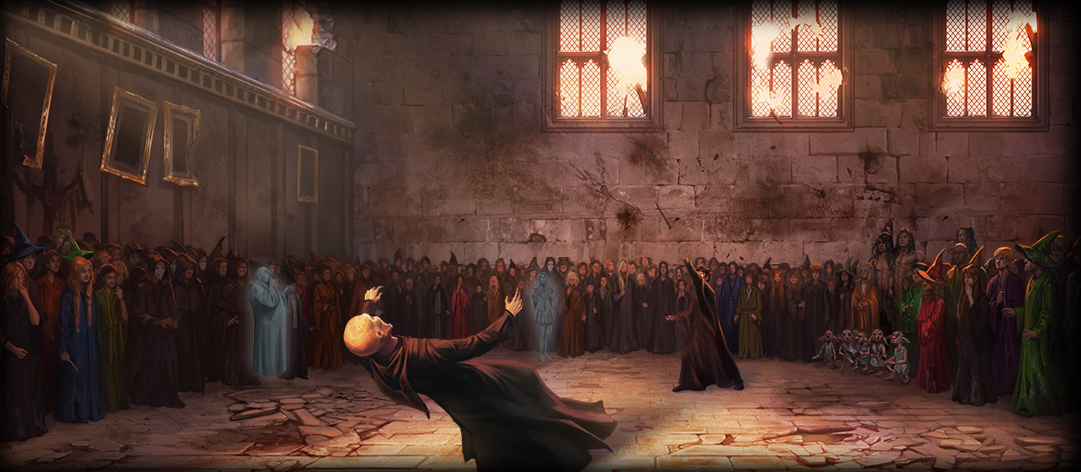
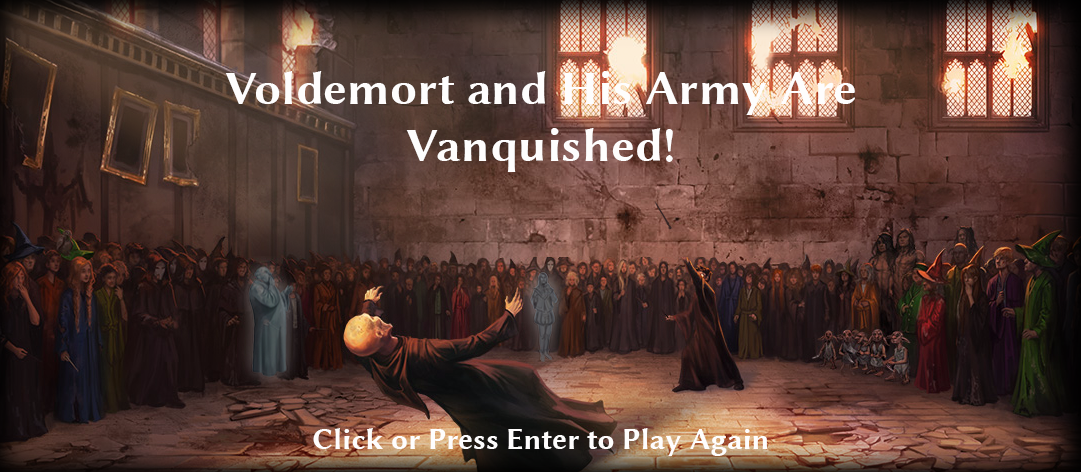
modified screens

Changed region(s): [[0.2137, 0.1483, 0.7937, 0.2373], [0.3663, 0.2669, 0.6411, 0.3559], [0.2747, 0.8898, 0.7327, 0.9788]]

diff --git a/public/js/screens/title.js b/public/js/screens/title.js
@@ -21,33 +21,26 @@ game.TitleScreen = me.ScreenObject.extend({
         // add a new renderable component with the scrolling text
         me.game.world.addChild(new (me.Renderable.extend({
             // constructor
-            init: function() {
+            init : function() {
                 this._super(me.Renderable, 'init', [0, 0, me.game.viewport.width, me.game.viewport.height]);
 
                 // font for the scrolling text
                 this.font = new me.BitmapFont(me.loader.getBinary('PressStart2P'), me.loader.getImage('PressStart2P'));
             },
 
-            // some callback for the tween objects
-            scrollover: function() {
-                // reset to default value
-                this.scrollerpos = 1024;
-                this.scrollertween.to({ scrollerpos: -2200 }, 10000).onComplete(this.scrollover.bind(this)).start();
-            },
-
             update: function(dt) {
                 return true;
             },
-
+	/*
             draw: function(renderer) {
                 // TODO: fix this rendering
-                this.font.draw(renderer, "A HARRY POTTER THEMED TOWER DEFENSE GAME", 635, 700);
-                this.font.draw(renderer, "CLICK OR PRESS ENTER TO PLAY", 765, 775);
-		this.font.draw(renderer, "PRESS L TO LEARN HOW TO PLAY", 765, 850);
+                this.font.draw(renderer, "DEFEND THE WIZARDING WORLD OF HARRY POTTER", 2000, 1000);
+                this.font.draw(renderer, "CLICK OR PRESS ENTER TO PLAY", 2150, 1200);
+		this.font.draw(renderer, "PRESS L TO LEARN HOW TO PLAY", 2150, 1400);
                 // this.font.draw(renderer, "A HARRY POTTER THEMED TOWER DEFENSE GAME", 635, 1050);
                 // this.font.draw(renderer, "CLICK OR PRESS ENTER TO PLAY", 765, 1125);
             },
-
+	*/
         })), 2);
 
         // change to play state on press Enter or click/tap

diff --git a/public/js/screens/loser.js b/public/js/screens/loser.js
@@ -11,7 +11,7 @@ game.LoserScreen = me.ScreenObject.extend({
 	var loserImage = new me.Sprite(0, 0, {
 		image: me.loader.getImage('DarkMark'),
 	});
-
+	me.game.viewport.reset(0, 0);
 	// position and scale to fit the viewport size
 	loserImage.anchorPoint.set(0, 0);
 	loserImage.scale(me.game.viewport.width / loserImage.width, me.game.viewport.height / loserImage.height);
@@ -25,25 +25,18 @@ game.LoserScreen = me.ScreenObject.extend({
 		init: function() {
 			this._super(me.Renderable, 'init', [0, 0, me.game.viewport.width, me.game.viewport.height]);
 
-			//font for the scrolling text
+			//font 
 			this.font = new me.BitmapFont(me.loader.getBinary('PressStart2P'), me.loader.getImage('PressStart2P'));
-		},
-
-		// some callback for the tween objects
-		scrollover: function() {
-			//reset to default value
-			this.scrollerpos = 1024;
-			this.scrollertween.to({ scrollerpos: -2200 }, 10000).onComplete(this.scrollover.bind(this)).start();
 		},
 
 		update: function(dt) {
 			return true;
 		},
 
-		draw: function(renderer) {
-			this.font.draw(renderer, "GAME OVER", 635, 700);
-			this.font.draw(renderer, "CLICK OR PRESS ENTER TO PLAY AGAIN", 635, 800);
-		},
+		//draw: function(renderer) {
+		//	this.font.draw(renderer, "GAME OVER", 2000, 2000);
+	//		this.font.draw(renderer, "CLICK OR PRESS ENTER TO PLAY AGAIN", 2000, 2200);
+	//	},
 
 	})), 2);
 

diff --git a/public/js/entities/enemyEntities.js b/public/js/entities/enemyEntities.js
@@ -108,9 +108,9 @@ game.GrindylowEnemy = game.Enemy.extend({
         // max walking speed
         this.body.setMaxVelocity(1, 0);
 
-        // TODO: add the attack animation
-        // TODO: add the takeDamage animation
-        // TODO: add the die animation
+        // add the attack animation
+        // add the takeDamage animation
+        // add the die animation
 
         this.renderable.addAnimation("move", [4, 5, 6, 7]);
         this.renderable.addAnimation("stand", [0, 1, 2, 3]);
@@ -164,7 +164,7 @@ game.GrindylowEnemy = game.Enemy.extend({
     },
     /**
      * Collision handler
-     * TODO: override this
+     * 
     */
     onCollision: function (response, other) {
         if (response.b.body.collisionType !== me.collision.types.WORLD_SHAPE) {

diff --git a/public/js/entities/spellEntities.js b/public/js/entities/spellEntities.js
@@ -95,10 +95,8 @@ game.ImperturbableCharmSpell = game.Spell.extend({
 	}
         this._super(game.Spell, 'init', [x, y, IMPERTURBABLE_HEALTH, IMPERTURBABLE_ATTACK, settings]);
 
-        // TODO: add the idle animation
-        // TODO: add the cast animation
-        // TODO: add the deflect animation
-        // TODO: add the explode animation
+        // add the idle animation
+        // add the cast animation 
         this.renderable.addAnimation("idle", [0]);
         this.renderable.addAnimation("cast", [1, 2, 3, 4, 5, 6]);
         this.renderable.setCurrentAnimation("cast", "idle");

diff --git a/public/js/screens/winner.js b/public/js/screens/winner.js
@@ -38,11 +38,11 @@ game.WinnerScreen = me.ScreenObject.extend({
 		update: function(dt) {
 			return true;
 		},
-
+/*
 		draw: function(renderer) {
 			this.font.draw(renderer, "VOLDEMORT AND HIS ARMY IS VANQUISHED", 635, 700);
 			this.font.draw(renderer, "CLICK OR PRESS ENTER TO PLAY AGAIN", 765, 775);
-		},
+		},*/
 	})), 2);
 
 		//change to play state on press Enter or click

diff --git a/public/js/screens/play.js b/public/js/screens/play.js
@@ -94,6 +94,9 @@ game.PlayScreen = me.ScreenObject.extend({
 
         // stop the audio track
         me.audio.stopTrack();
+
+
+
     }
 });
 
